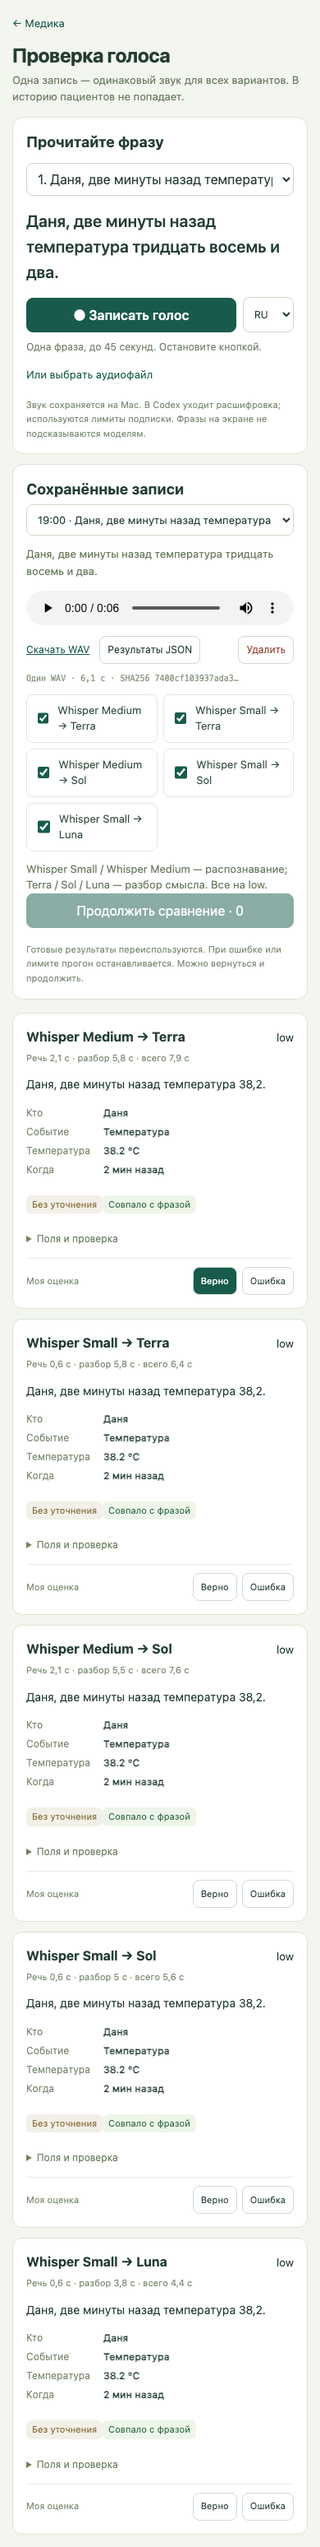
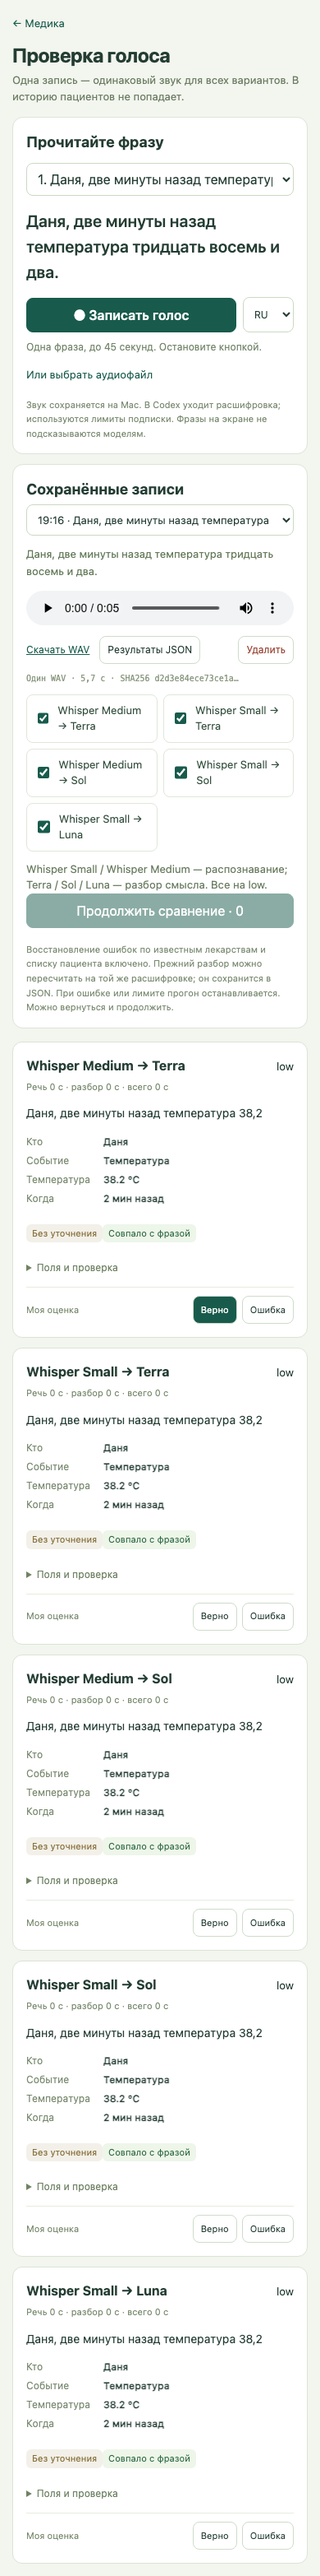
Recover ASR medicine names using patient context and known medicines

diff --git a/site/public/voice-lab.js b/site/public/voice-lab.js
@@ -13,8 +13,8 @@ async function api(path,body,method=body?'POST':'GET',retried=false){
 }
 async function refresh(){state=await api('');selected=new Set([...selected].map(id=>id==='base-terra'?'medium-terra':id==='base-sol'?'medium-sol':id).filter(id=>state.variants.some(v=>v.id===id)));if(!selected.size)selected=new Set(['small-terra','medium-terra']);localStorage.setItem('voice-lab-variants',JSON.stringify([...selected]));if(!current())recordId=state.recordings[0]?.id||'';render();}
 function render(){
-  const record=current(),phrase=state.phrases.find(p=>p.id===phraseId),remaining=[...selected].filter(id=>state.variants.some(v=>v.id===id&&v.ready)&&record?.results[id]?.status!=='complete');
-  root.innerHTML=`<section class="panel recorder"><h2>Прочитайте фразу</h2><select id="phrase" aria-label="Фраза для записи" ${disabled()}>${state.phrases.map((p,i)=>`<option value="${p.id}" ${p.id===phraseId?'selected':''}>${i+1}. ${e(p.text.slice(0,55))}</option>`).join('')}<option value="custom" ${phraseId==='custom'?'selected':''}>Своя фраза</option></select>${phraseId==='custom'?`<label for="custom">Что планируете сказать · необязательно</label><textarea id="custom" rows="3" ${disabled()}>${e(customPrompt)}</textarea>`:`<blockquote>${e(phrase?.text)}</blockquote>`}<div class="record-actions"><button class="${recording?'recording':'primary'}" data-act="mic" ${busy?'disabled':''}>${recording?'■ Сохранить запись':'● Записать голос'}</button><select id="language" aria-label="Язык" ${disabled()}><option value="ru" ${language==='ru'?'selected':''}>RU</option><option value="en" ${language==='en'?'selected':''}>EN</option></select></div><div class="record-status" role="status">${e(busy|| (recording?'Запись идёт…':'Одна фраза, до 45 секунд. Остановите кнопкой.'))}</div><label class="file-label">Или выбрать аудиофайл<input id="audio-file" type="file" accept=".wav,.m4a,.mp4,.aif,.aiff" ${disabled()}></label>${!window.isSecureContext?`<div class="secure-help"><p>Для микрофона откройте <a href="https://${e(location.hostname)}/voice-lab">HTTPS-страницу</a>.</p><details><summary>Настройка iPhone / iPad</summary><p><a href="/medika-ca.cer">Скачать сертификат</a> → установить профиль в настройках → Основные → Об этом устройстве → Доверие сертификатам → Medika Local Root.</p></details></div>`:''}<p class="privacy">Звук сохраняется на Mac. В Codex уходит расшифровка; используются лимиты подписки. Фразы на экране не подсказываются моделям.</p></section><div class="workspace"><section class="panel"><div class="saved-title"><h2>Сохранённые записи</h2><select id="saved" aria-label="Сохранённая запись" ${disabled()}><option value="">Выберите запись</option>${state.recordings.map(r=>`<option value="${r.id}" ${r.id===recordId?'selected':''}>${e(new Date(r.createdAt).toLocaleTimeString('ru-RU',{hour:'2-digit',minute:'2-digit'}))} · ${e(r.prompt?.slice(0,55)||'Своя фраза')}</option>`).join('')}</select></div>${record?`<p class="record-prompt">${e(record.prompt||'Своя фраза')}</p><audio controls preload="metadata" src="/api/voice-lab/recordings/${record.id}/audio"></audio><div class="record-tools"><a href="/api/voice-lab/recordings/${record.id}/audio" download="voice-${record.id}.wav">Скачать WAV</a><button data-act="export" ${disabled()}>Результаты JSON</button><button class="delete" data-act="delete" ${disabled()}>Удалить</button></div><p class="hash">Один WAV · ${secs(record.duration*1000)} · SHA256 ${e(record.audioSha256.slice(0,16))}…</p>`:'<p class="empty">Запишите фразу — она появится здесь.</p>'}<div class="variant-options">${state.variants.map(v=>`<label><input type="checkbox" data-variant="${v.id}" ${selected.has(v.id)?'checked':''} ${!v.ready||disabled()?'disabled':''}>${e(v.label)}${v.ready?'':' · недоступен'}</label>`).join('')}</div><p class="muted">Whisper Small / Whisper Medium — распознавание; Terra / Sol / Luna — разбор смысла. Все на low.</p><div class="compare-actions"><button class="primary" data-act="compare" ${disabled()||!record||!remaining.length?'disabled':''}>${record&&[...selected].some(id=>record.results[id])?'Продолжить сравнение':'Сравнить выбранные'} · ${remaining.length}</button>${busy.startsWith('Сравнение')?'<button data-act="stop">Стоп</button>':''}</div><p class="privacy">Готовые результаты переиспользуются. При ошибке или лимите прогон останавливается. Можно вернуться и продолжить.</p></section><section class="results" aria-label="Сравнение вариантов">${record?state.variants.filter(v=>record.results[v.id]).map(v=>resultCard(v,record.results[v.id],record)).join('')||'<p class="empty">Выберите варианты и нажмите «Сравнить».</p>':''}</section></div>`;
+  const record=current(),phrase=state.phrases.find(p=>p.id===phraseId),remaining=[...selected].filter(id=>state.variants.some(v=>v.id===id&&v.ready)&&(record?.results[id]?.status!=='complete'||record.results[id].analysisKey!==state.analysisKey));
+  root.innerHTML=`<section class="panel recorder"><h2>Прочитайте фразу</h2><select id="phrase" aria-label="Фраза для записи" ${disabled()}>${state.phrases.map((p,i)=>`<option value="${p.id}" ${p.id===phraseId?'selected':''}>${i+1}. ${e(p.text.slice(0,55))}</option>`).join('')}<option value="custom" ${phraseId==='custom'?'selected':''}>Своя фраза</option></select>${phraseId==='custom'?`<label for="custom">Что планируете сказать · необязательно</label><textarea id="custom" rows="3" ${disabled()}>${e(customPrompt)}</textarea>`:`<blockquote>${e(phrase?.text)}</blockquote>`}<div class="record-actions"><button class="${recording?'recording':'primary'}" data-act="mic" ${busy?'disabled':''}>${recording?'■ Сохранить запись':'● Записать голос'}</button><select id="language" aria-label="Язык" ${disabled()}><option value="ru" ${language==='ru'?'selected':''}>RU</option><option value="en" ${language==='en'?'selected':''}>EN</option></select></div><div class="record-status" role="status">${e(busy|| (recording?'Запись идёт…':'Одна фраза, до 45 секунд. Остановите кнопкой.'))}</div><label class="file-label">Или выбрать аудиофайл<input id="audio-file" type="file" accept=".wav,.m4a,.mp4,.aif,.aiff" ${disabled()}></label>${!window.isSecureContext?`<div class="secure-help"><p>Для микрофона откройте <a href="https://${e(location.hostname)}/voice-lab">HTTPS-страницу</a>.</p><details><summary>Настройка iPhone / iPad</summary><p><a href="/medika-ca.cer">Скачать сертификат</a> → установить профиль в настройках → Основные → Об этом устройстве → Доверие сертификатам → Medika Local Root.</p></details></div>`:''}<p class="privacy">Звук сохраняется на Mac. В Codex уходит расшифровка; используются лимиты подписки. Фразы на экране не подсказываются моделям.</p></section><div class="workspace"><section class="panel"><div class="saved-title"><h2>Сохранённые записи</h2><select id="saved" aria-label="Сохранённая запись" ${disabled()}><option value="">Выберите запись</option>${state.recordings.map(r=>`<option value="${r.id}" ${r.id===recordId?'selected':''}>${e(new Date(r.createdAt).toLocaleTimeString('ru-RU',{hour:'2-digit',minute:'2-digit'}))} · ${e(r.prompt?.slice(0,55)||'Своя фраза')}</option>`).join('')}</select></div>${record?`<p class="record-prompt">${e(record.prompt||'Своя фраза')}</p><audio controls preload="metadata" src="/api/voice-lab/recordings/${record.id}/audio"></audio><div class="record-tools"><a href="/api/voice-lab/recordings/${record.id}/audio" download="voice-${record.id}.wav">Скачать WAV</a><button data-act="export" ${disabled()}>Результаты JSON</button><button class="delete" data-act="delete" ${disabled()}>Удалить</button></div><p class="hash">Один WAV · ${secs(record.duration*1000)} · SHA256 ${e(record.audioSha256.slice(0,16))}…</p>`:'<p class="empty">Запишите фразу — она появится здесь.</p>'}<div class="variant-options">${state.variants.map(v=>`<label><input type="checkbox" data-variant="${v.id}" ${selected.has(v.id)?'checked':''} ${!v.ready||disabled()?'disabled':''}>${e(v.label)}${v.ready?'':' · недоступен'}</label>`).join('')}</div><p class="muted">Whisper Small / Whisper Medium — распознавание; Terra / Sol / Luna — разбор смысла. Все на low.</p><div class="compare-actions"><button class="primary" data-act="compare" ${disabled()||!record||!remaining.length?'disabled':''}>${record&&[...selected].some(id=>record.results[id])?'Продолжить сравнение':'Сравнить выбранные'} · ${remaining.length}</button>${busy.startsWith('Сравнение')?'<button data-act="stop">Стоп</button>':''}</div><p class="privacy">Восстановление ошибок по известным лекарствам и списку пациента включено. Прежний разбор можно пересчитать на той же расшифровке; он сохранится в JSON. При ошибке или лимите прогон останавливается. Можно вернуться и продолжить.</p></section><section class="results" aria-label="Сравнение вариантов">${record?state.variants.filter(v=>record.results[v.id]).map(v=>resultCard(v,record.results[v.id],record)).join('')||'<p class="empty">Выберите варианты и нажмите «Сравнить».</p>':''}</section></div>`;
   $('#phrase').onchange=event=>{phraseId=event.target.value;localStorage.setItem('voice-lab-phrase',phraseId);render();};
   if($('#custom'))$('#custom').oninput=event=>customPrompt=event.target.value;
   $('#language').onchange=event=>language=event.target.value;
@@ -24,8 +24,9 @@ function render(){
 }
 function resultCard(variant,r,record){
   if(r.status!=='complete')return `<article class="result" data-result="${variant.id}"><h3>${e(variant.label)}</h3><p class="${r.status==='failed'?'error':'notes'}">${e(r.error||(r.status==='interrupted'?'Прогон прерван. Нажмите «Продолжить».':'Выполняется…'))}</p></article>`;
+  const stale=r.analysisKey!==state.analysisKey;
   const d=r.draft,offset=d.occurredAt?Math.round((Date.parse(record.capturedAt)-Date.parse(d.occurredAt))/1000):null,when=offset===null?'Не разобрано':offset===0?'В момент записи':offset%60===0?`${offset/60} мин назад`:`${offset} с назад`;
-  return `<article class="result" data-result="${variant.id}"><div class="result-head"><h3>${e(variant.label)}</h3><small>low</small></div><p class="timing">Речь ${secs(r.asrMs)} · разбор ${secs(r.parseMs)} · всего ${secs(r.totalMs)}</p><p class="transcript">${e(r.transcript)}</p><dl><dt>Кто</dt><dd>${e(people[d.personId]||'Не разобрано')}</dd><dt>Событие</dt><dd>${e(kinds[d.kind])}</dd>${d.name?`<dt>Название</dt><dd>${e(d.name)}</dd>`:''}${d.celsius?`<dt>Температура</dt><dd>${e(d.celsius)} °C</dd>`:''}${d.amount?`<dt>Количество</dt><dd>${e(d.amount)} ${e(d.unit)}</dd>`:''}${d.strength?`<dt>Содержание</dt><dd>${e(d.strength)}</dd>`:''}<dt>Когда</dt><dd>${e(when)}</dd></dl><span class="badge">${d.canAutoRecord?'Без уточнения':'Нужно уточнение'}</span>${r.score?`<span class="badge ${r.score.passed?'good':'bad'}">${r.score.passed?'Совпало с фразой':'Есть расхождения'}</span>`:''}${d.notes.length?`<p class="notes">${d.notes.map(e).join('<br>')}</p>`:''}<details><summary>Поля и проверка</summary><pre>${e(JSON.stringify({model:r.model,audioSha256:r.audioSha256,draft:r.draft,score:r.score,asrCached:r.asrCached},null,2))}</pre></details><div class="verdict"><span>Моя оценка</span><button data-verdict="correct" data-id="${variant.id}" aria-pressed="${r.verdict==='correct'}" ${disabled()}>Верно</button><button data-verdict="wrong" data-id="${variant.id}" aria-pressed="${r.verdict==='wrong'}" ${disabled()}>Ошибка</button></div></article>`;
+  return `<article class="result" data-result="${variant.id}"><div class="result-head"><h3>${e(variant.label)}</h3><small>low</small></div>${stale?'<p class="notes">Прежний разбор · нажмите «Продолжить сравнение» для восстановления названий.</p>':''}<p class="timing">Речь ${secs(r.asrMs)} · разбор ${secs(r.parseMs)} · всего ${secs(r.totalMs)}</p><p class="transcript">${e(r.transcript)}</p><dl><dt>Кто</dt><dd>${e(people[d.personId]||'Не разобрано')}</dd><dt>Событие</dt><dd>${e(kinds[d.kind])}</dd>${d.name?`<dt>Название</dt><dd>${e(d.name)}</dd>`:''}${d.celsius?`<dt>Температура</dt><dd>${e(d.celsius)} °C</dd>`:''}${d.amount?`<dt>Количество</dt><dd>${e(d.amount)} ${e(d.unit)}</dd>`:''}${d.strength?`<dt>Содержание</dt><dd>${e(d.strength)}</dd>`:''}<dt>Когда</dt><dd>${e(when)}</dd></dl><span class="badge">${d.canAutoRecord?'Без уточнения':'Нужно уточнение'}</span>${r.score?`<span class="badge ${r.score.passed?'good':'bad'}">${r.score.passed?'Совпало с фразой':'Есть расхождения'}</span>`:''}${d.notes.length?`<p class="notes">${d.notes.map(e).join('<br>')}</p>`:''}<details><summary>Поля и проверка</summary><pre>${e(JSON.stringify({model:r.model,audioSha256:r.audioSha256,draft:r.draft,score:r.score,asrCached:r.asrCached},null,2))}</pre></details><div class="verdict"><span>Моя оценка</span><button data-verdict="correct" data-id="${variant.id}" aria-pressed="${r.verdict==='correct'}" ${disabled()}>Верно</button><button data-verdict="wrong" data-id="${variant.id}" aria-pressed="${r.verdict==='wrong'}" ${disabled()}>Ошибка</button></div></article>`;
 }
 async function saveAudio(file,at){
   if(!file||busy)return;if(file.size>8*1024*1024){notice('Запись больше 8 МБ');return;}busy='Сохраняю запись…';render();
@@ -38,7 +39,7 @@ async function mic(){
   busy='Включаю микрофон…';render();try{recording=await captureVoice(()=>mic(),{autoStop:false});capturedAt=new Date().toISOString();busy='';render();timer=setInterval(()=>{const node=$('.record-status');if(node)node.textContent='Запись · '+Math.floor((Date.now()-Date.parse(capturedAt))/1000)+' / 45 с';},250);}catch(error){notice(error.name==='NotAllowedError'?'Разрешите микрофон в браузере':error.message);}finally{busy='';render();}
 }
 async function compare(){
-  if(busy||recording||!current())return;const id=recordId,variants=state.variants.filter(v=>selected.has(v.id)&&v.ready&&current().results[v.id]?.status!=='complete');stopRequested=false;
+  if(busy||recording||!current())return;const id=recordId,variants=state.variants.filter(v=>selected.has(v.id)&&v.ready&&(current().results[v.id]?.status!=='complete'||current().results[v.id].analysisKey!==state.analysisKey));stopRequested=false;
   try{for(let i=0;i<variants.length&&!stopRequested;i++){const v=variants[i];busy=`Сравнение ${i+1}/${variants.length} · ${v.label}`;render();const result=await api('/recordings/'+id+'/run',{variantId:v.id});await refresh();if(result.status==='failed'){notice('Прогон остановлен: '+result.error);break;}}}catch(error){notice('Прогон остановлен: '+error.message);}finally{busy='';await refresh();}
 }
 root.addEventListener('click',async event=>{const b=event.target.closest('button');if(!b)return;try{

diff --git a/PROJECT.md b/PROJECT.md
@@ -34,7 +34,9 @@
 
 Прогон выполняется последовательно. Готовые результаты повторно не вычисляются; после обновления страницы/перезапуска можно продолжить оставшиеся. Ошибка, лимит или «Стоп» останавливают очередь; текущий запрос при «Стоп» завершается. Автоматических повторов или платного fallback нет. Основное приложение использует Whisper Small → Terra. На этом Mac установлены Whisper Small и Whisper Medium; размер/URL/SHA256 закреплены в site/voice-engine.json. Установщик поддерживает small, medium и all; Whisper Base не поддерживается и его старый файл весов удалён. При переносе недостающая модель явно недоступна. Старые результаты сравнений не переписываются: они остаются в сохранённых JSON, но не используются новыми вариантами. Старый выбор Whisper Base в браузере заменяется выбором Whisper Medium без переноса старых результатов под новым названием.
 
-Проверки страницы: **26 unit/API-тестов**, headless canary с настоящим микрофонным путём на синтетическом WAV, пятью реальными сочетаниями Whisper/Codex, перезапуском/возобновлением и остановкой очереди. Отдельно проверены опубликованные ресурсы с API во временной базе, ширины 320/390/768/1024/1470 и Range-прослушивание для Safari. Физический iPhone/iPad не проверен. Результаты: reports/voice-lab-model-canary.json, reports/voice-lab-canary.json, reports/voice-lab-live.json. Команда: `MEDIKA_TEST_AI=1 PLAYWRIGHT_MODULE=… node site/scripts/voice-lab-canary.mjs`; без флага модельные ответы подменяются для быстрых UI-проверок.
+Проверки страницы: **27 unit/API-тестов**, headless canary с настоящим микрофонным путём на синтетическом WAV, пятью реальными сочетаниями Whisper/Codex, перезапуском/возобновлением и остановкой очереди. Отдельно проверены опубликованные ресурсы с API во временной базе, ширины 320/390/768/1024/1470 и Range-прослушивание для Safari. Физический iPhone/iPad не проверен. Результаты: reports/voice-lab-model-canary.json, reports/voice-lab-canary.json, reports/voice-lab-live.json. Команда: `MEDIKA_TEST_AI=1 PLAYWRIGHT_MODULE=… node site/scripts/voice-lab-canary.mjs`; без флага модельные ответы подменяются для быстрых UI-проверок.
+
+Модель теперь восстанавливает ошибки ASR по фонетическому сходству: сначала названия из списка пациента, затем локальный словарь известных препаратов, затем известные модели реальные названия. Убедительное восстановление не требует отдельного подтверждения только из-за исправленного написания. При нескольких правдоподобных вариантах остаётся уточнение; отсутствующие числа/дозы из контекста не добавляются. В lab используется тот же минимальный словарь названий пациентов, без дозировок и полной истории. Эталон фразы не передаётся. Результаты старого разбора помечаются на странице: «Продолжить сравнение» повторно разбирает сохранённую расшифровку без Whisper. Прежний результат и оценка сохраняются в resultHistory в скачиваемом JSON; актуальные результаты переиспользуются до изменения правил или списка препаратов.
 
 ## Архитектура
 

diff --git a/reports/approach-notes.md b/reports/approach-notes.md
@@ -25,3 +25,5 @@
 Калибровка страницы проверялась сначала на одном сохранённом синтетическом файле с модельным результатом/оценкой, перезапуском и возобновлением, затем на пяти вариантах. Никаких настоящих записей семьи в автотесты не подставлялось. При инъекции лимита очередь прекратилась на первом запросе. Эталонные фразы не поступают в ASR или prompt модели смысла.
 
 По прямому требованию пользователя Whisper Base удалён из оперативных путей, а не только из названий: модели/default, варианты API/страницы, установщик и benchmark. Основной ввод переведён на Whisper Small. Следующая стандартная по размеру модель — Whisper Medium; первичный источник и blob metadata подтверждены, загрузка проверена префиксом/размером/SHA256. Потоковая загрузка не держит 1,53 GB целиком в памяти. На двух синтетических примерах модель запускается на этом Mac за приемлемое время, но ошибки названия препарата сохраняются; это основание добавить её в сравнение, не объявлять качество готовым. Старые результаты не мигрируют в результаты Medium, меняется только browser selection.
+
+Восстановление после ASR: обнаружено, что прежний запрет «не выдумывать лекарство по созвучию» блокировал полезную нормализацию и не соответствовал запросу пользователя на понимание речи. По явному указанию пользователя ограничение заменено восстановлением из известных лекарств с приоритетом списка пациента. Сохранены границы: не придумывать числовые факты и не выдавать нескольких кандидатов за однозначный результат. Canary с искажённым синтетическим названием прошёл до расширенной проверки. Старый результат не считается проверкой нового подхода: семантический кэш учитывает версию правил и минимальный словарь; предыдущие результаты архивируются, ASR/WAV переиспользуются.

diff --git a/AGENTS.md b/AGENTS.md
@@ -35,3 +35,5 @@
 - Все варианты лаба получают один сохранённый WAV с одинаковым SHA256; для одинакового Whisper переиспользовать расшифровку. Сохранять результаты каждого шага, оценки и время записи; при перезапуске не повторять готовые запросы. Любая ошибка/лимит останавливает очередь. Аудио и результаты защищены сессией/Origin; для Safari поддерживать Range. /voice-lab как публичная оболочка разрешает переход из чата, её API остаётся защищённым.
 
 - Whisper Base запрещён и технически удалён из рабочих моделей: основной ввод Whisper Small, дополнительный Whisper Medium. Не возвращать Whisper Base в установщик, API, варианты/дефолты тестовой страницы или исполняемые benchmark-скрипты. Исторические результаты и сохранённый JSON не удалять/не переименовывать в результаты новой модели. Миграция выбора браузера меняет только выбранный вариант, не результаты.
+
+- По требованию пользователя разрешено восстанавливать названия препаратов после ASR по фонетике и контексту: приоритет списку пациента, затем общему словарю/известным реальным названиям. Убедительное исправление само по себе не требует уточнения. Не подменять явно названный другой препарат ближайшим из списка; несколько правдоподобных кандидатов требуют уточнения. Числа/дозу не выводить из назначения. Lab использует только минимальные имена/названия, эталоны не передавать; при смене правил/словаря пересчитывать только семантику, сохраняя старый результат/оценку в resultHistory.
